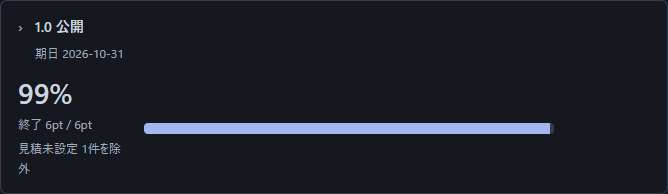
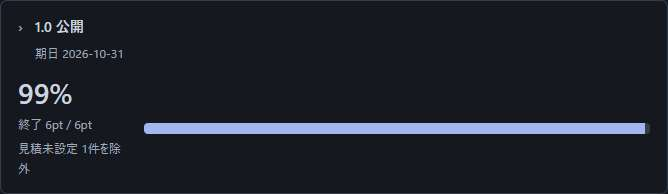
fix(board): 「残り」を出さないとき、帯を残りの欄まで広げる
期間の行でも、同じ表示になることを、テストで確かめる。

Refs #111

Changed region(s): [[0.8084, 0.6186, 0.988, 0.7113]]

diff --git a/dist/github-planning.css b/dist/github-planning.css
@@ -45,3 +45,6 @@ details[open]>summary>.github-scope-name:before{transform:rotate(90deg)}
 .state-legend-row.missing:before{background:repeating-linear-gradient(45deg,var(--amber) 0 2px,transparent 2px 4px);box-shadow:inset 0 0 0 1px var(--amber)}
 .state-legend-row.missing>b{color:var(--amber)}
 .state-legend-row.missing a{color:inherit;text-decoration:underline;margin-left:4px}
+.github-progress.no-remaining{grid-template-columns:120px minmax(60px,1fr)}
+@media(max-width:850px){.github-progress.no-remaining{grid-template-columns:110px minmax(60px,1fr)}}
+@media(max-width:440px){.github-progress.no-remaining{grid-template-columns:1fr;gap:8px}}
